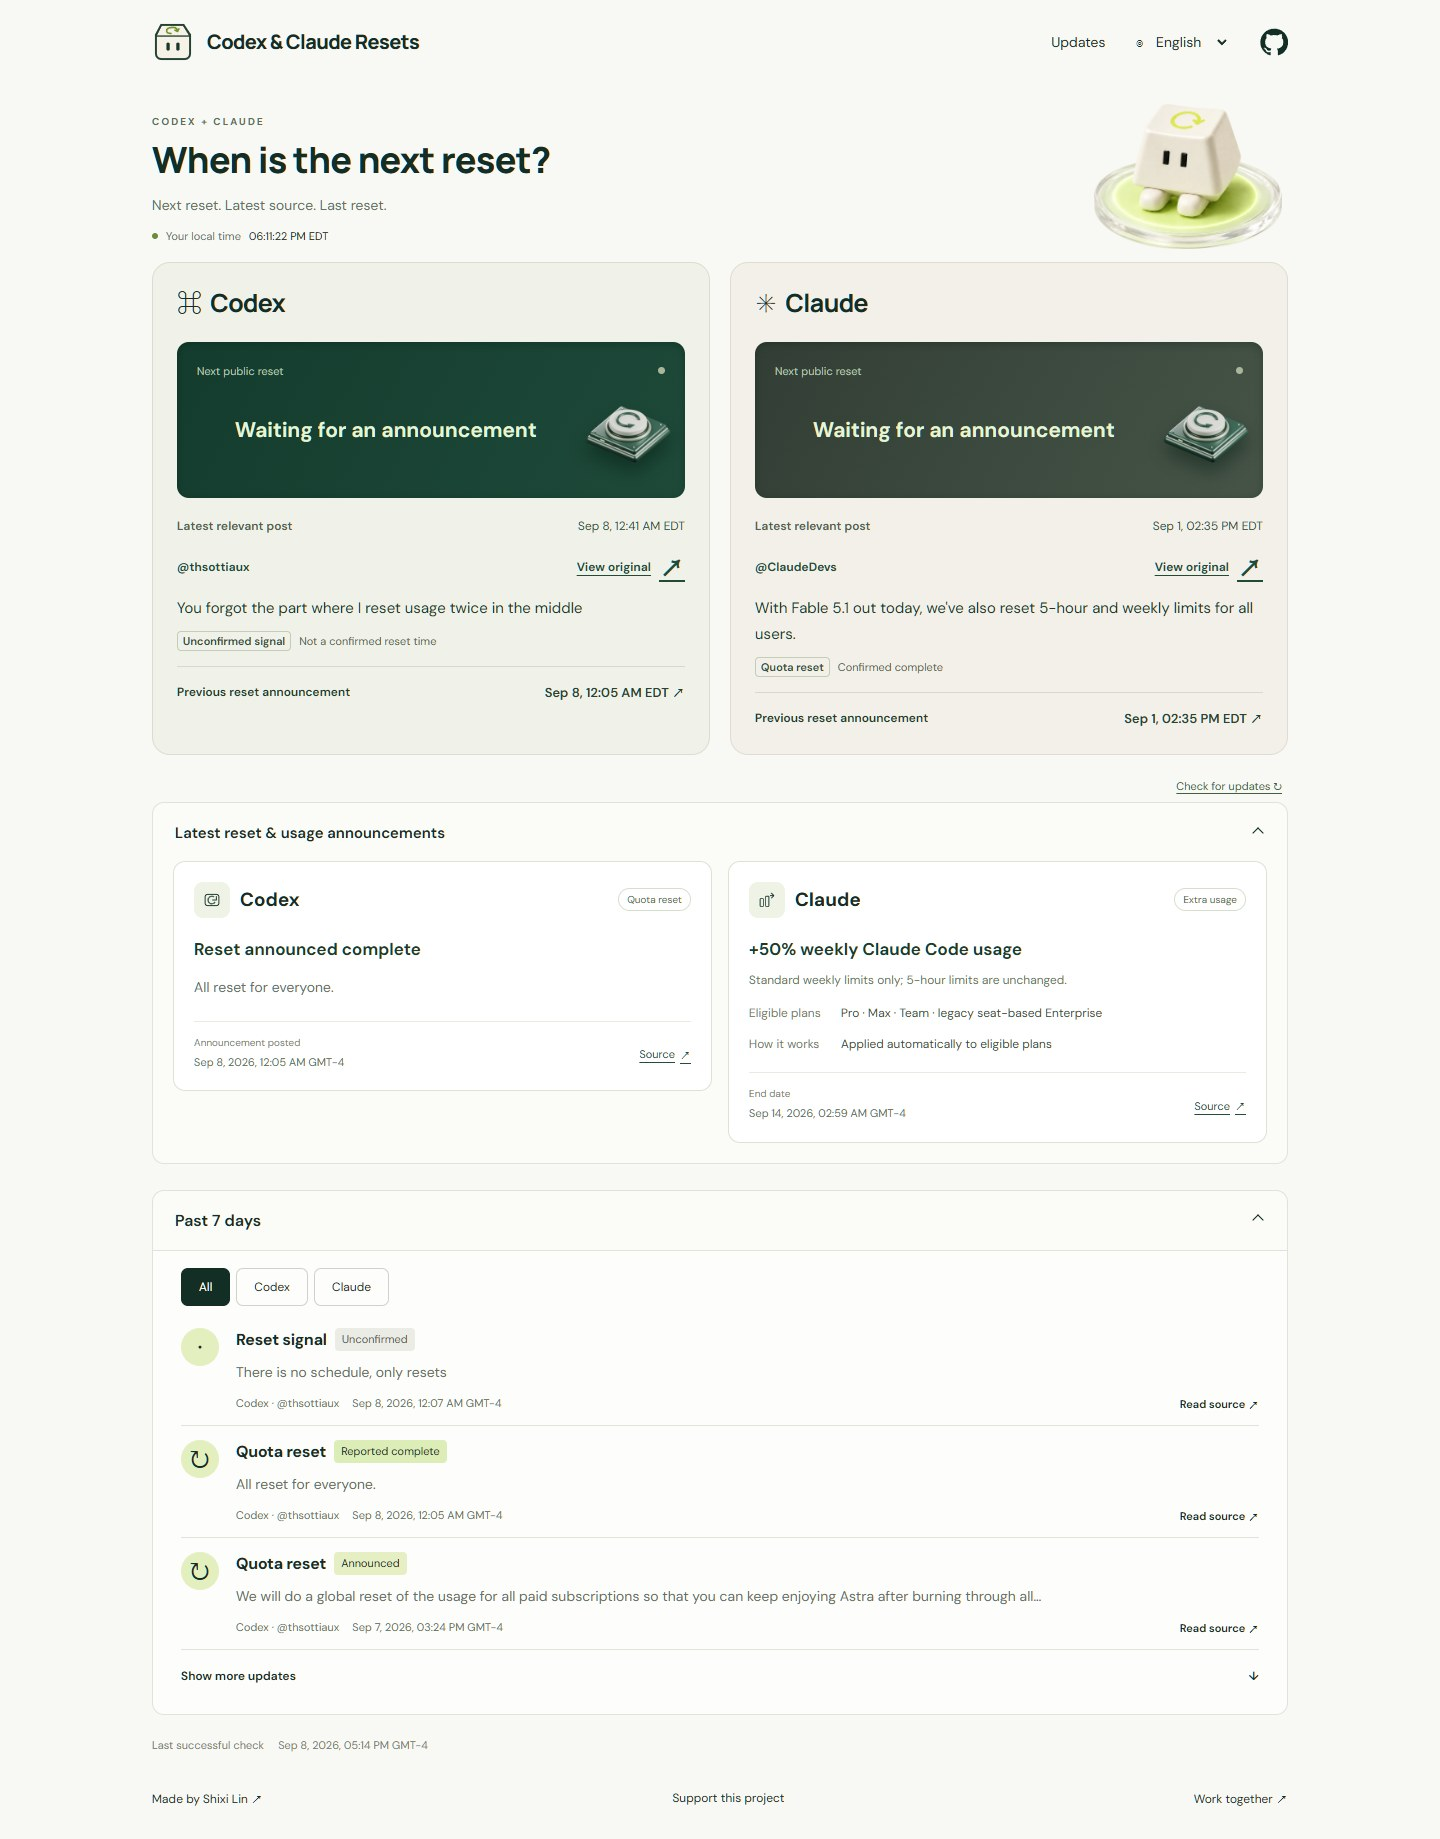
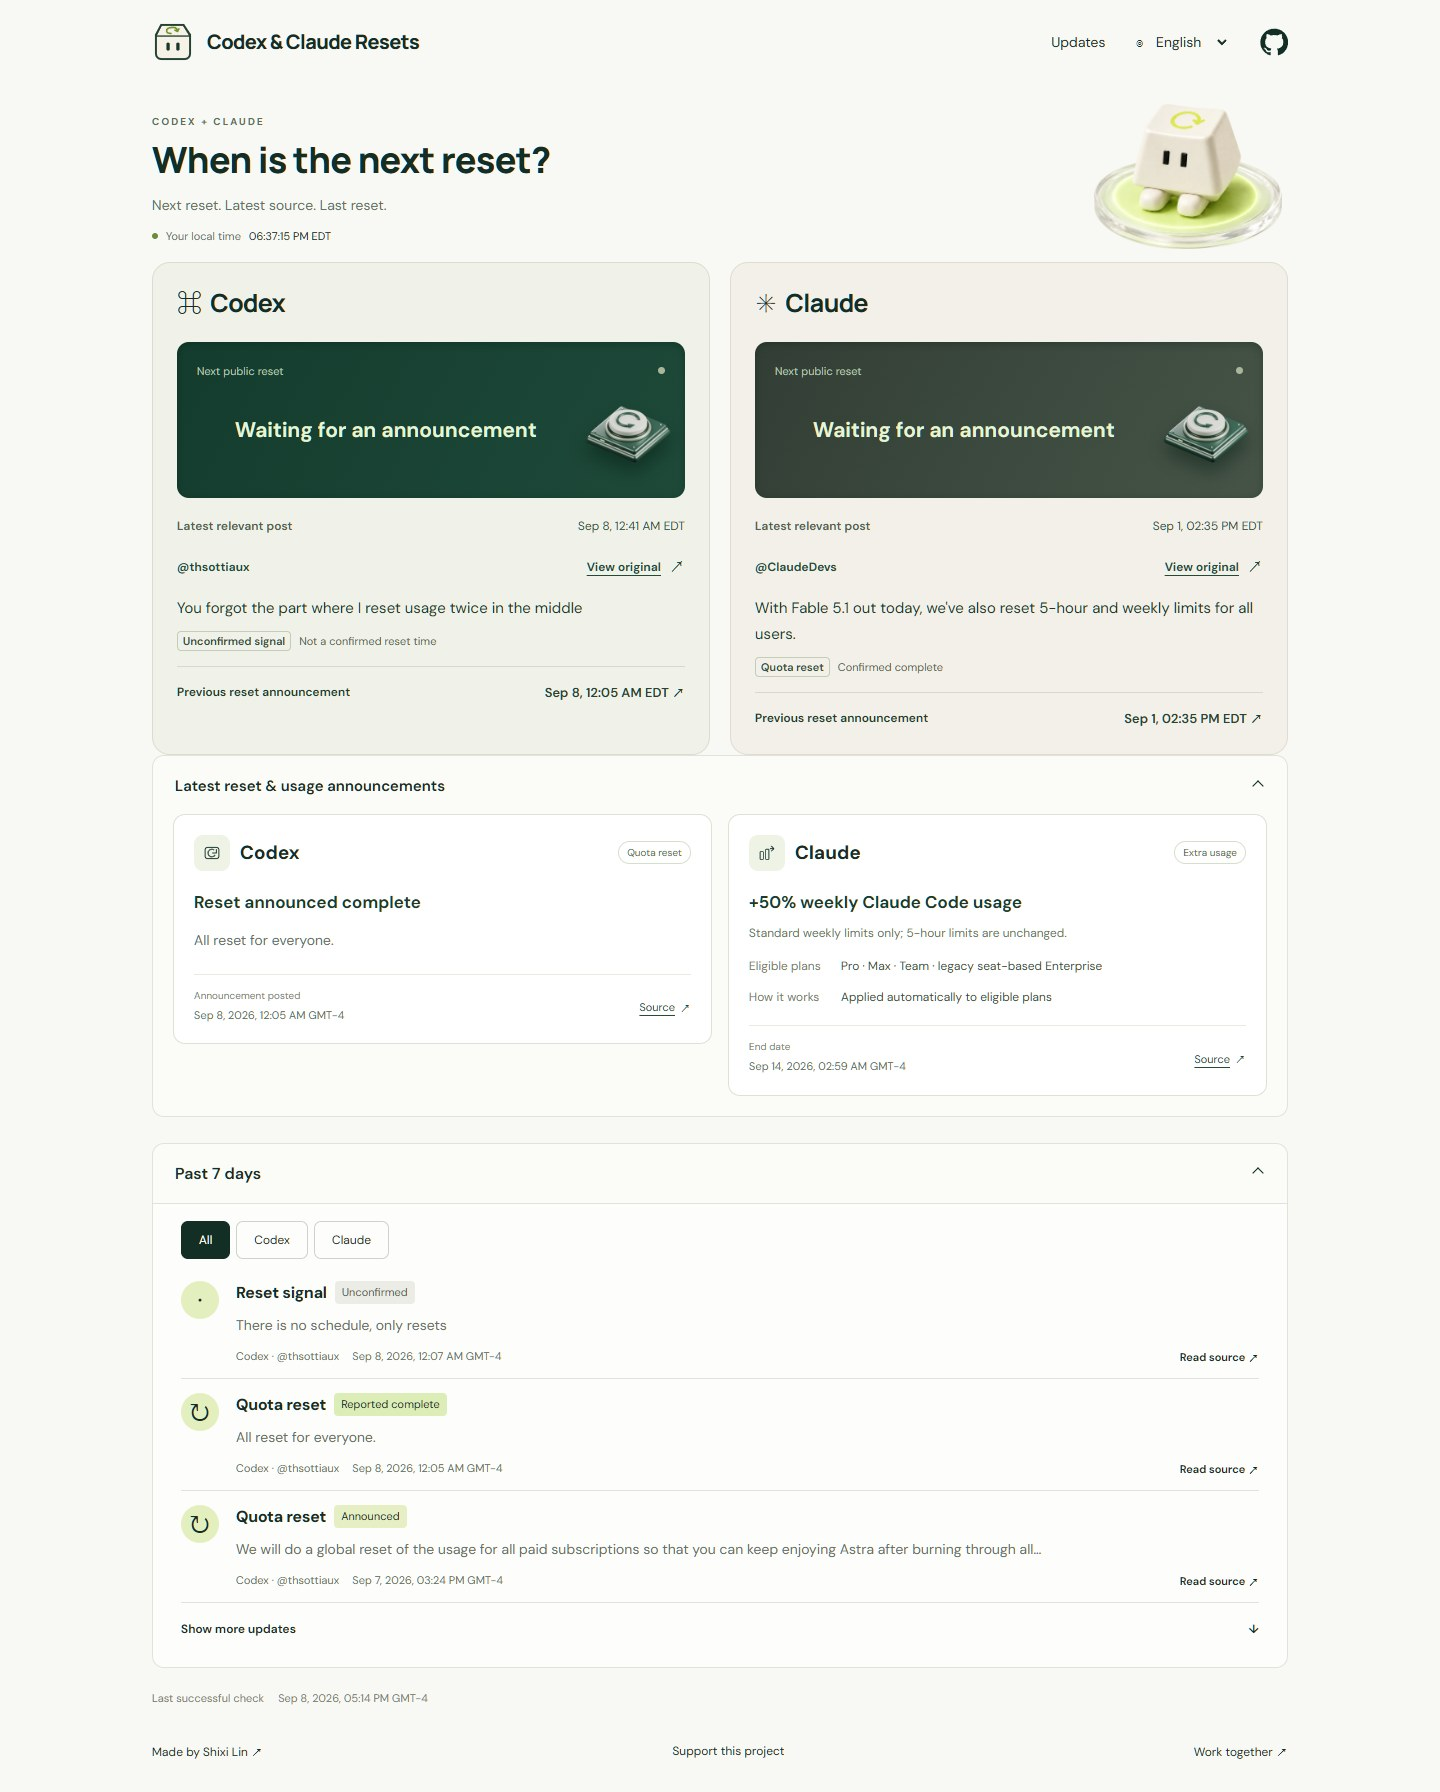
Refine source arrows and remove manual refresh control

diff --git a/src/clocks.css b/src/clocks.css
@@ -33,3 +33,5 @@
 
 
 .offer-source,.offer-source:hover{ text-decoration:none }.offer-source-label{text-decoration:underline;text-underline-offset:4px}
+
+.tweet-source,.tweet-source:hover,.source-action{text-decoration:none}.source-action-label{text-decoration:underline;text-underline-offset:4px}.source-arrow{font-size:16px;font-weight:500;text-decoration:none}.live-controls:not(:has([data-live-status]:not([hidden]))){display:none}
